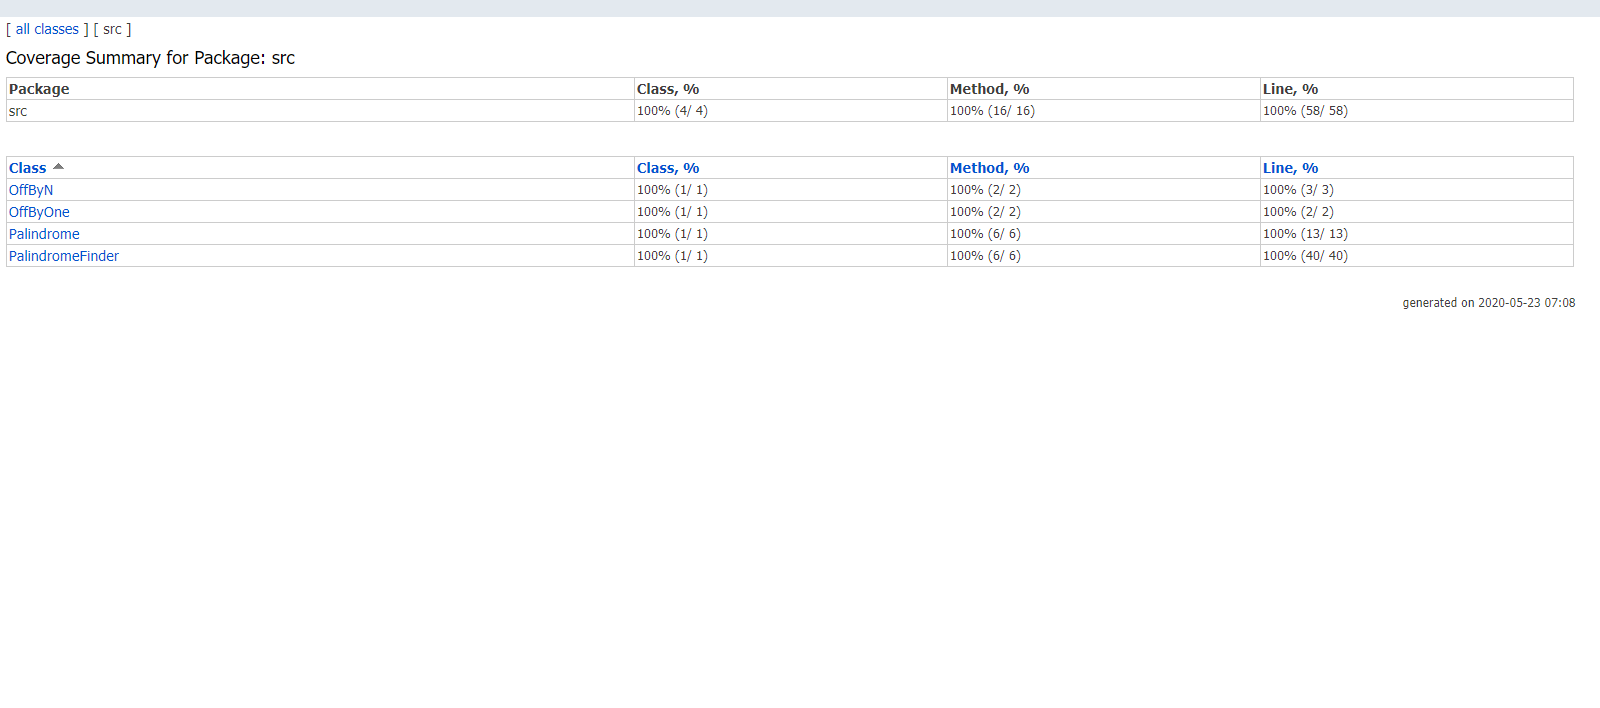
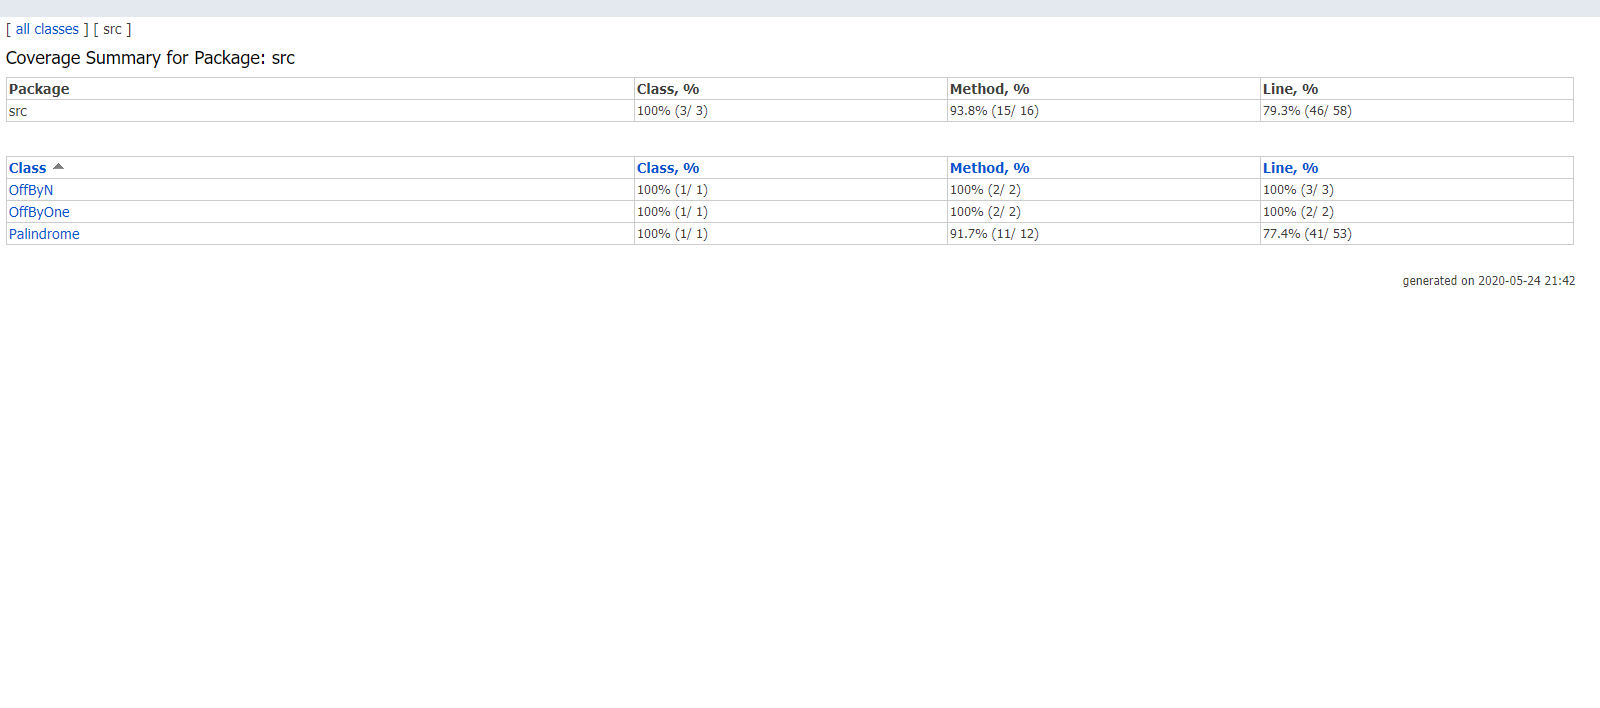
implemented for fun methods and tests

diff --git a/proj1b/tests/TestPalindrome.java b/proj1b/tests/TestPalindrome.java
@@ -1,11 +1,22 @@
 package tests;
 import org.junit.jupiter.api.Assertions;
+import org.junit.jupiter.api.BeforeEach;
 import org.junit.jupiter.api.DisplayName;
 import org.junit.jupiter.api.Test;
+import org.junit.jupiter.api.Nested;
+import src.OffByN;
 import src.OffByOne;
 import src.Palindrome;
 
 import src.Deque;
+
+import java.io.IOException;
+import java.nio.file.Files;
+import java.nio.file.Paths;
+import java.util.ArrayList;
+import java.util.List;
+import java.util.stream.Collectors;
+import java.util.stream.Stream;
 
 import static org.junit.jupiter.api.Assertions.*;
 
@@ -64,5 +75,46 @@ public class TestPalindrome {
         Assertions.assertFalse(palindrome.isPalindrome("aa", offByOne));
         Assertions.assertFalse(palindrome.isPalindrome("aBa", offByOne));
 
+    }
+
+    @Nested
+    @DisplayName("Given a PalindromeFinder and a file containing words")
+    class PalindromeFinderTest {
+
+        Palindrome palindrome;
+        String file;
+
+        @BeforeEach
+        public void init() {
+            palindrome = new Palindrome();
+            file = "../library-sp19/data/words.txt";
+        }
+
+        @Test
+        @DisplayName("finds the value of N that has the most off by N palindromes")
+        void findNWithMostPalindromes() {
+            int[] mostPals = palindrome.mostPalindromes(file);
+            assertEquals(4, mostPals[0]);
+            assertEquals(122, mostPals[1]);
+        }
+
+        @Test
+        @DisplayName("finds the value of N that has the longest off by N palindrome")
+        void findNWithLongestPalindrome() {
+            Object[] longestPal = palindrome.longestPalindrome(file);
+            assertEquals(3, longestPal[0]);
+            assertEquals("purveyors", longestPal[1]);
+        }
+
+        @Test
+        @DisplayName("finds the off by N palindromes for a specified N")
+        void findsOffByNPalindromesForSpecifiedN() {
+            List<String> list = new ArrayList<>();
+            list.add("box");
+            list.add("coy");
+            list.add("cry");
+            List<String> pals = palindrome.palindromesOffByN(file, 22);
+            assertEquals(list, pals);
+        }
     }
 } 

diff --git a/proj1b/src/PalindromeFinder.java b/proj1b/src/PalindromeFinder.java
@@ -17,9 +17,9 @@ public class PalindromeFinder {
         System.out.println("Palindromes with a minimum length of four:");
         Palindrome.palindromesWithMinimumLength(file, 4);
 
-        int specifiedN = 5;
-        List<String> list = Palindrome.palindromesOffByN(file, specifiedN);
-        System.out.printf("List of offByN palindromes for specified N: %d.\n", specifiedN);
+        int N = 22;
+        List<String> list = Palindrome.palindromesOffByN(file, N);
+        System.out.printf("List of offByN palindromes for specified N: %d.\n", N);
         list.forEach(System.out::println);
 
     }

diff --git a/proj1b/src/Palindrome.java b/proj1b/src/Palindrome.java
@@ -1,7 +1,5 @@
 package src;
 
-import edu.princeton.cs.algs4.In;
-
 import java.io.IOException;
 import java.nio.file.Files;
 import java.nio.file.Paths;

diff --git a/proj1b/README.md b/proj1b/README.md
@@ -3,8 +3,9 @@
 Determine if a word is a palindrome. The [LinkedListDeque](src/LinkedListDeque.java) that I implemented in project 1a is used to represent a word. 
 
 The word.txt file is read as a stream and the words in the file are filtered using the isPalindrome 
-method and the CharacterComparator functional interface. Other aggregate functions such as max, count,
-and collect(Collectors.toList()) are used to implement the "just for fun" methods described in the 
+method and the CharacterComparator functional interface in lambda expressions. Method references and other
+ aggregate functions such as max, count,
+and collect(Collectors.toList()) are also used to implement the "just for fun" methods described in the 
 project.
 
 Test Driven Development was used to complete this assignment. 
